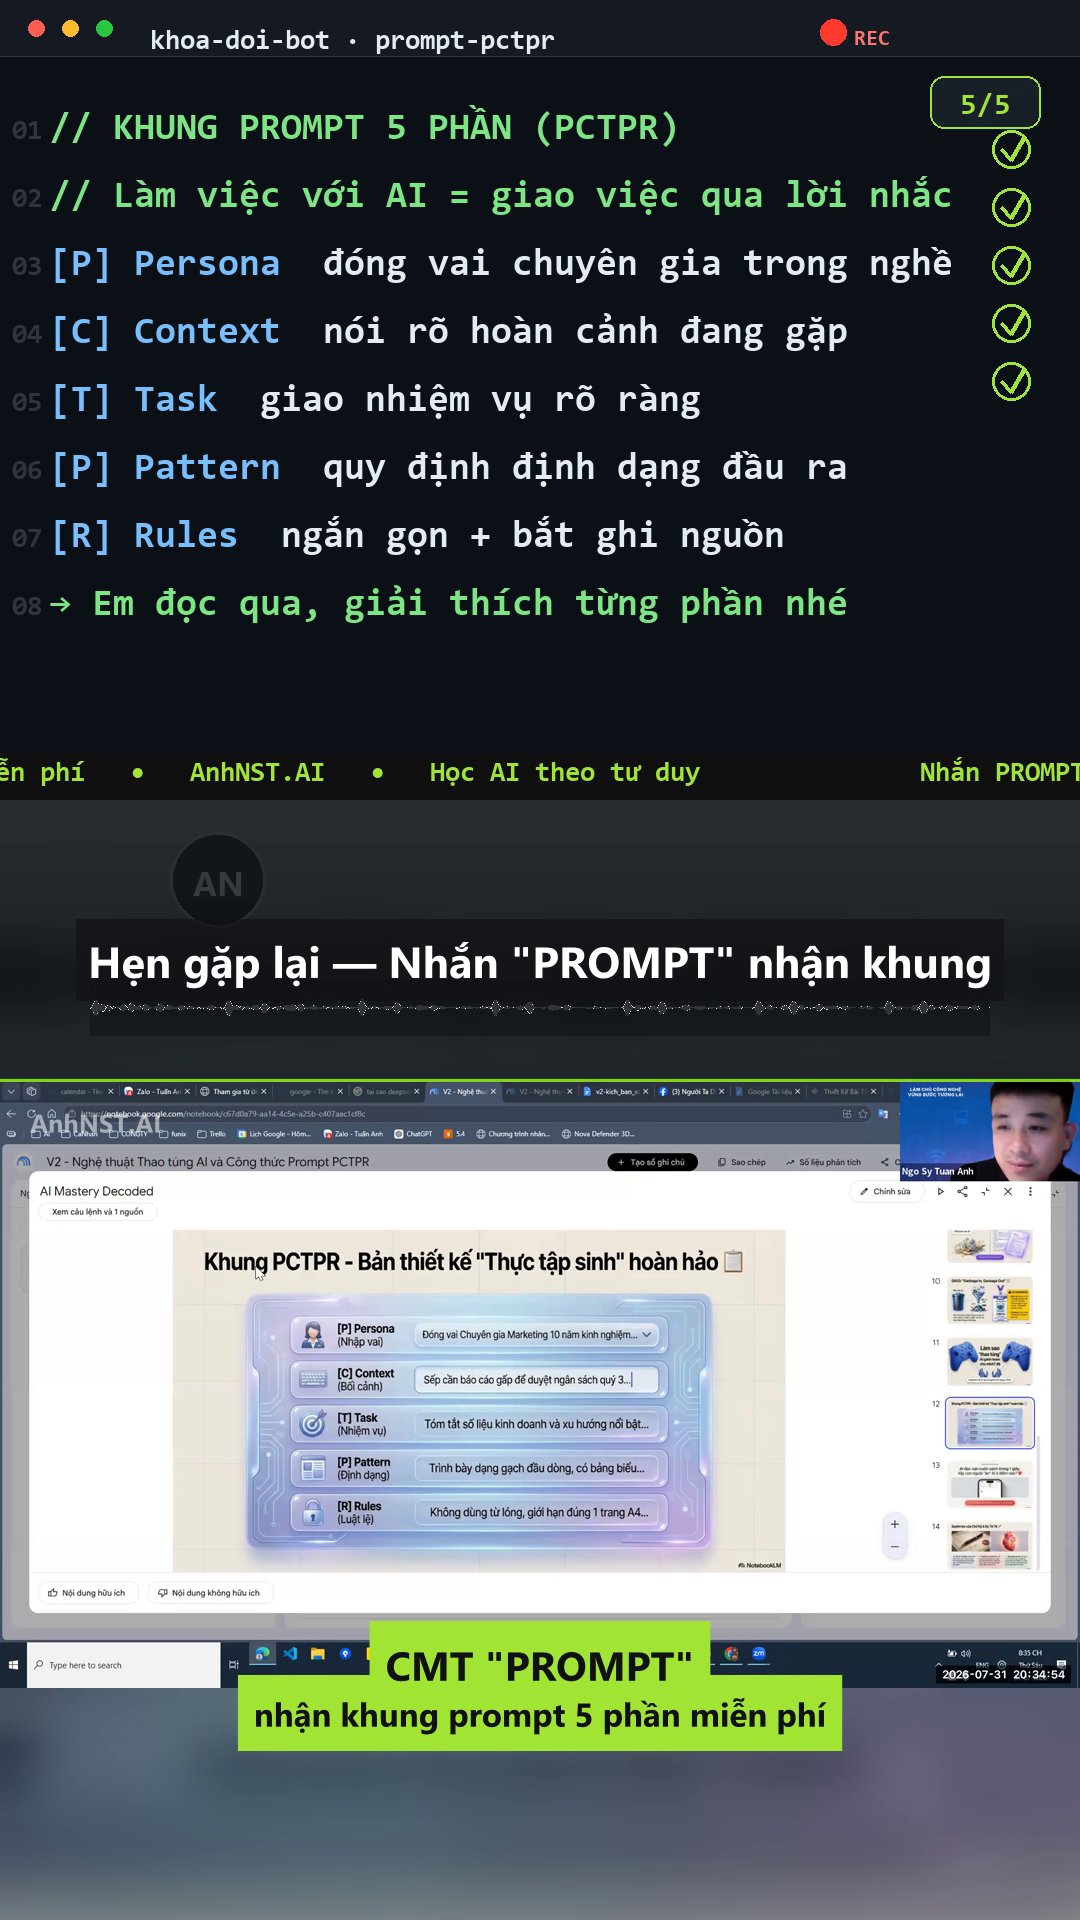
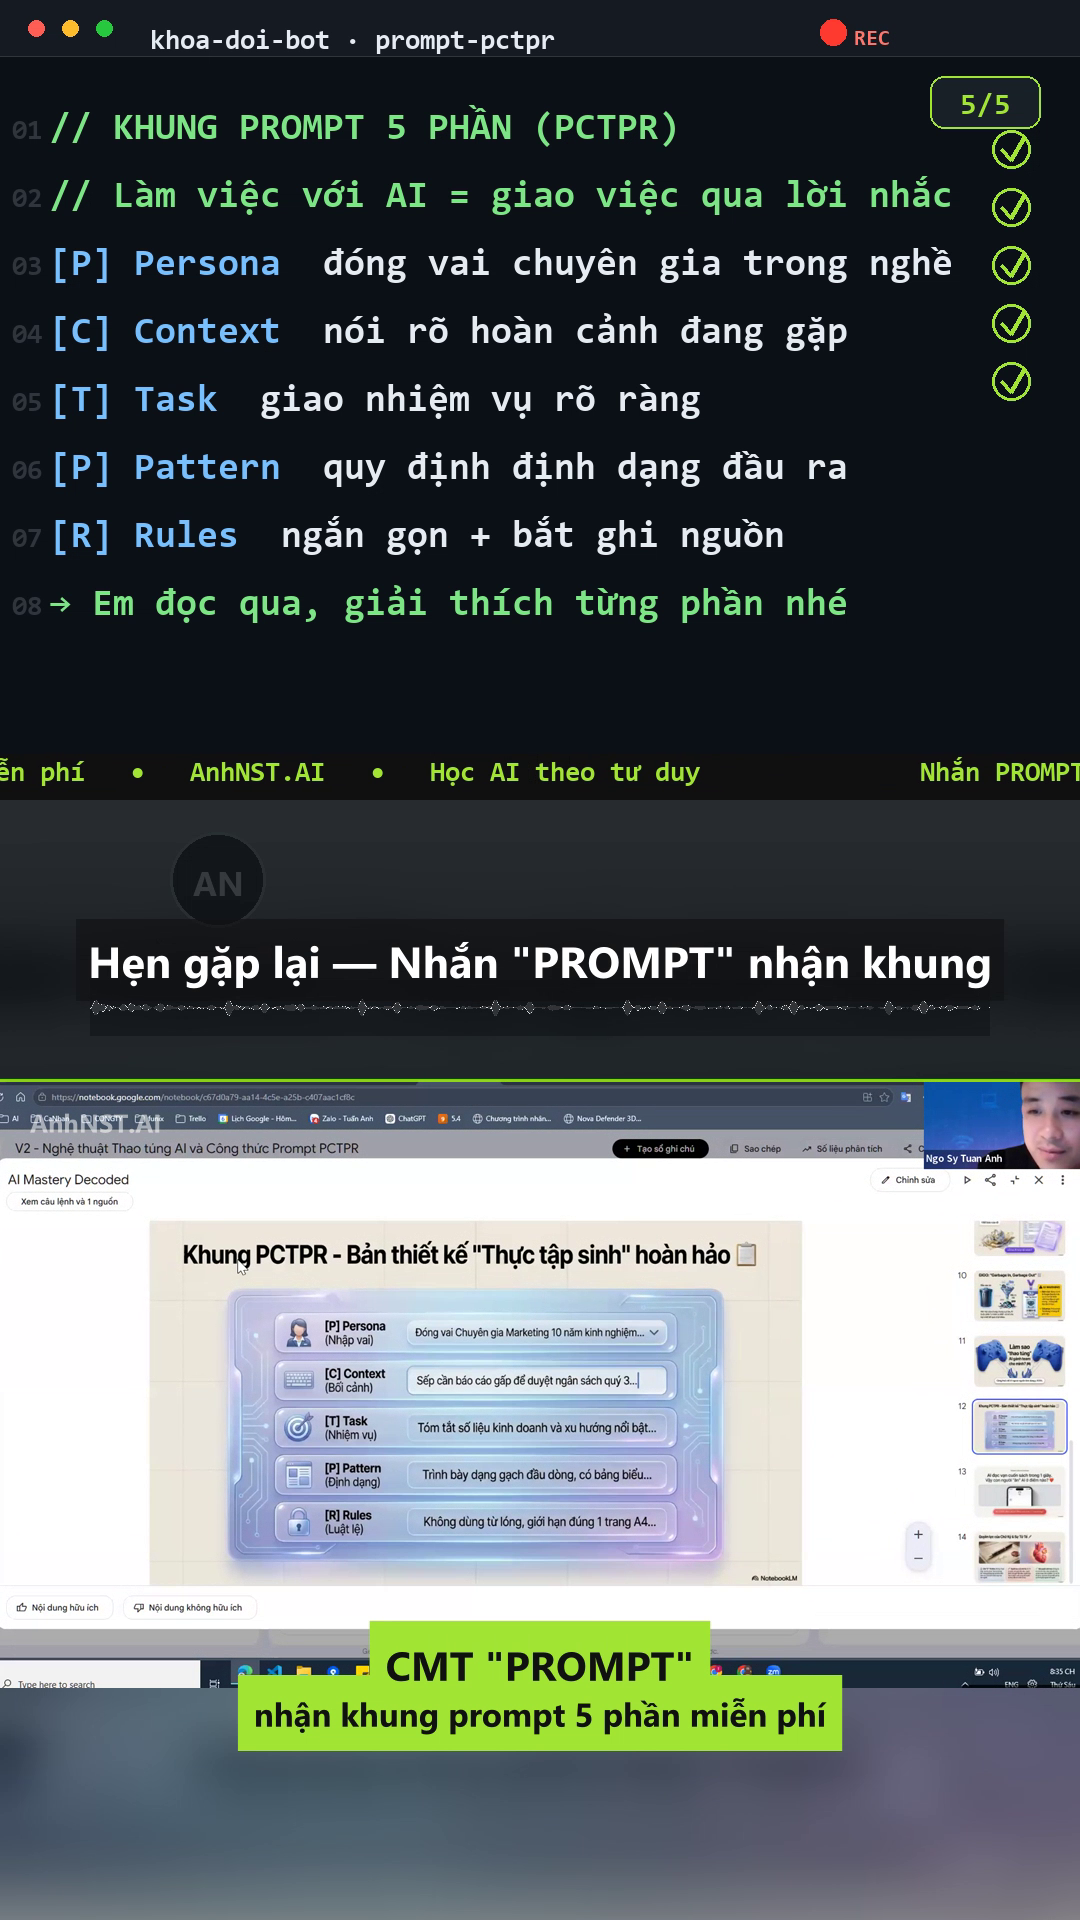
E39 zoom breathe: 318/350 (tag v36) — M35 3->10, dong bo LFO nhac

Changed region(s): [[0.0, 0.5625, 1.0, 0.9062]]

diff --git a/render_code_variant.py b/render_code_variant.py
@@ -394,6 +394,14 @@ def main() -> int:
                 ":x='iw/2-(iw/zoom/2)':y='ih/2-(ih/zoom/2)'"
                 ":d=1:s=1080x608:fps=25[fg];"
             )
+        elif v.get("kenburns") == "breathe":
+            # zoom "thở" theo LFO nhạc pad (0.11 Hz — cùng tần số fade hợp âm)
+            chain += (
+                "[fgsrc]scale=2200:-2,"
+                "zoompan=z='1.04+0.025*sin(2*PI*0.11*(in/25))'"
+                ":x='iw/2-(iw/zoom/2)':y='ih/2-(ih/zoom/2)'"
+                ":d=1:s=1080x608:fps=25[fg];"
+            )
         else:
             chain += (
                 "[fgsrc]scale=2200:-2,"

diff --git a/diem/diem_log.md b/diem/diem_log.md
@@ -243,6 +243,10 @@ Chấm trên diem/E0_baseline/ (ffprobe: 1080x1920, 50.00s — chuẩn).
 
 - M34: 2 → 10 (poster_a/b/c.jpg giây 1.2/13/26 — 3 phong cách: hook/code-đa-sắc/checklist-đủ).
 
+## E39 — Zoom breathe: 318/350 (tag v36)
+
+- M35: 3 → 10 (zoompan sin 0.11Hz = cùng LFO hợp âm pad — hình thở cùng nhạc, audio-visual sync thật).
+
 ## PHIÊN 1 ĐÓNG TẠI ĐÂY (quota zai ~42%)
 
 Best: 97/100 (v8). Tiến trình: 86 → 87 → 90 → (91 fail 90) → 91 → 92 → 93 → 95 → 97.

diff --git a/rubric.md b/rubric.md
@@ -73,3 +73,5 @@ Chấm bằng 3 frame (đầu/giữa/cuối) + ffprobe + review diff. Mỗi mụ
 ## MỞ RỘNG v20 (E36): +M32 final render + publish pack chu kỳ (trần 320)
 
 ## MỞ RỘNG v21 (E37): +M33 ticker status bar trong khung code (trần 330)
+
+## MỞ RỘNG v22 (E39): +M35 zoom breathe theo LFO pad (trần 350)
